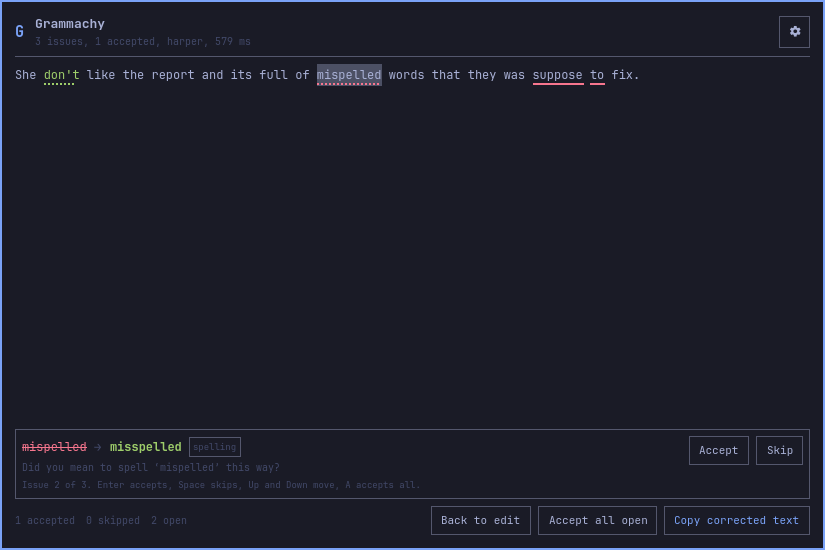
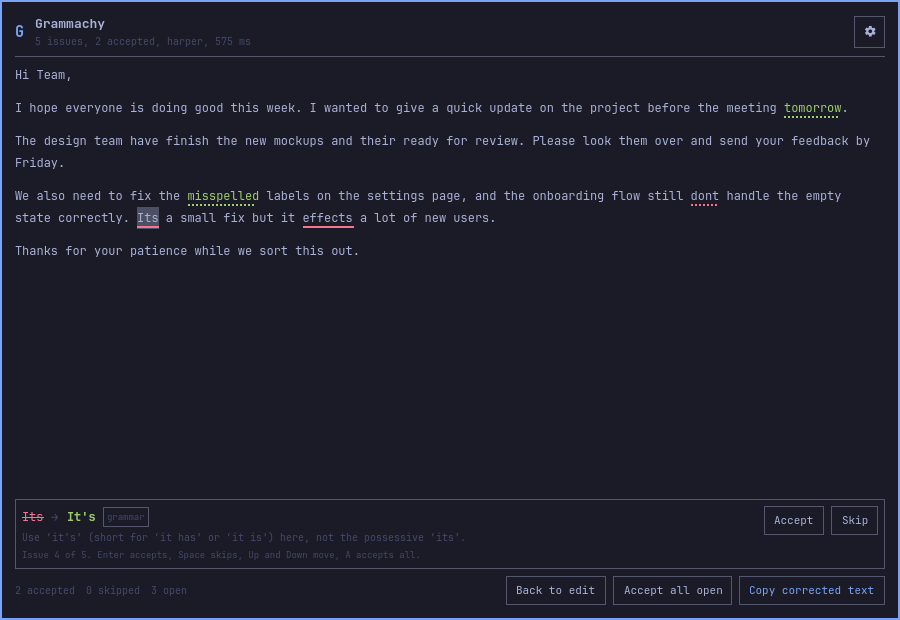
docs: fill the card screenshots and drop the settings capture

diff --git a/README.md b/README.md
@@ -13,17 +13,13 @@ No engine sends the text of a Check off the machine.
 Grammachy never checks while you type.
 Every Check is an explicit Trigger.
 
-![The quick popup card over a checked Selection, with two Issues accepted or skipped and the Inspector open on the third Fix.](docs/images/quick-card.png)
+![The quick popup card over a checked Selection, with an accepted Fix, a skipped Fix, and the Inspector open on an open Fix.](docs/images/quick-card.png)
 
 The quick popup after a Check, with the Inspector open on the focused Fix.
 
-![The Compose card reviewing a Draft, with one Issue accepted and the Inspector open on the second Fix.](docs/images/compose-card.png)
+![The Compose card reviewing a multi-paragraph Draft, with two Issues accepted and the Inspector open on a third Fix.](docs/images/compose-card.png)
 
 The Compose card reviewing a longer Draft in the same review view.
-
-![The Settings view of the quick popup, with the engine dropdown, the two hotkeys, and the Engines list.](docs/images/settings-card.png)
-
-The Settings view, reached from the gear on either card.
 
 ## Engines
 
